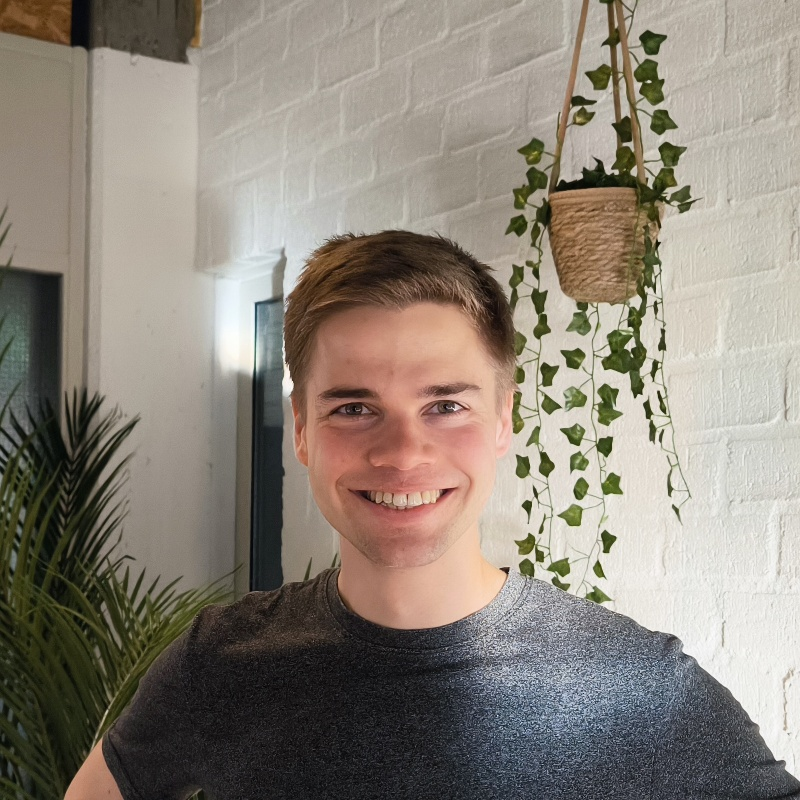
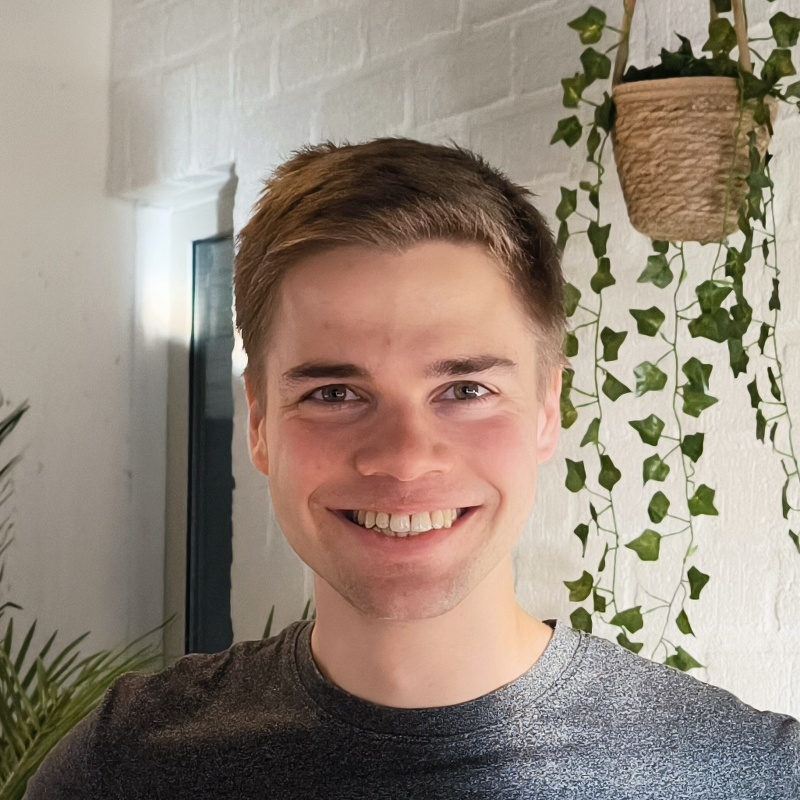
Remove ProjectCodr references, zoom profile image, remove Tools section
- Remove ProjectCodr mentions from Home2.js and AboutCard.js
- Zoom in profile image (50% face ratio for tighter crop)
- Remove Tools I use section and delete Toolstack.js

🤖 Generated with [Claude Code](https://claude.com/claude-code)

diff --git a/src/components/Home/Home2.js b/src/components/Home/Home2.js
@@ -32,13 +32,6 @@ function Home2() {
               We partner with preventive health clinics and researchers to build
               scalable AI systems that move us closer to{" "}
               <b className="purple">longevity escape velocity</b>.
-              <br />
-              <br />
-              Previously, I built{" "}
-              <a href="https://projectcodr.ai" target="_blank" rel="noreferrer">
-                <b className="purple">ProjectCodr</b>
-              </a>
-              , a VS Code extension for developers.
             </p>
           </Col>
           <Col md={4} className="myAvtar">

diff --git a/src/components/About/About.js b/src/components/About/About.js
@@ -3,7 +3,6 @@ import { Container, Row, Col } from "react-bootstrap";
 import Particle from "../Particle";
 import Aboutcard from "./AboutCard";
 import laptopImg from "../../Assets/profile.jpg";
-import Toolstack from "./Toolstack";
 
 function About() {
   return (
@@ -32,11 +31,6 @@ function About() {
             <img src={laptopImg} alt="about" className="img-fluid" />
           </Col>
         </Row>
-
-        <h1 className="project-heading">
-          <strong className="purple">Tools</strong> I use
-        </h1>
-        <Toolstack />
       </Container>
     </Container>
   );

diff --git a/src/components/About/AboutCard.js b/src/components/About/AboutCard.js
@@ -25,13 +25,6 @@ function AboutCard() {
             that extend human healthspan.
             <br />
             <br />
-            Previously, I built{" "}
-            <a href="https://projectcodr.ai" target="_blank" rel="noreferrer">
-              <span className="purple">ProjectCodr</span>
-            </a>
-            , a VS Code extension for developers.
-            <br />
-            <br />
             My current focuses:
           </p>
           <ul>
